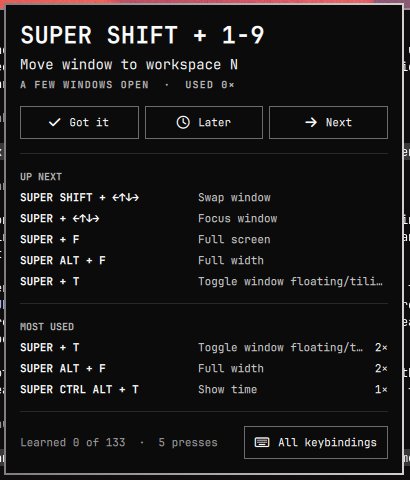
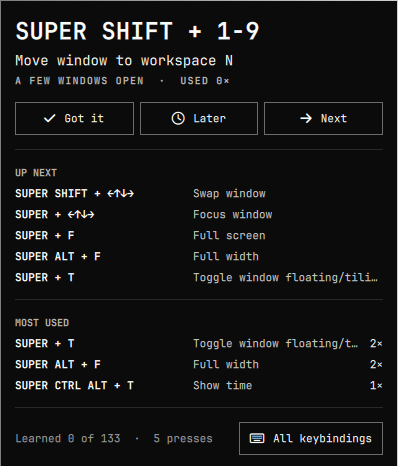
Rename plugin id to io.github.threeacresagency.keyhints; add marketplace preview
Marketplace plugin ids are permanent and globally unique, so use the
recommended io.github namespace. Adds a root preview.png for the listing.

Claude-Session: https://claude.ai/code/session_01DKnhWHVV6HbqrjStJANqUX

Changed region(s): [[0.0, 0.0, 1.0, 1.0], [0.4824, 0.3906, 0.9347, 0.6309], [0.4523, 0.0601, 0.5126, 0.0901]]

diff --git a/KeyHints.qml b/KeyHints.qml
@@ -15,8 +15,8 @@ import qs.Ui
 //   scroll = step suggestions back and forth
 Panel {
   id: root
-  moduleName: "brendan.keyhints"
-  ipcTarget: "brendan.keyhints"
+  moduleName: "io.github.threeacresagency.keyhints"
+  ipcTarget: "io.github.threeacresagency.keyhints"
 
   readonly property bool vertical: bar ? bar.vertical : false
   readonly property int barSize: bar ? bar.barSize : Style.bar.sizeHorizontal

diff --git a/README.md b/README.md
@@ -33,7 +33,7 @@ and nothing is hard-coded.
 
 ```bash
 omarchy plugin add https://github.com/ThreeAcresAgency/omarchy-keyhints.git --enable
-~/.config/omarchy/plugins/brendan.keyhints/install-tracker.sh
+~/.config/omarchy/plugins/io.github.threeacresagency.keyhints/install-tracker.sh
 ```
 
 The second step installs the usage tracker. Omarchy's plugin installer only
@@ -50,7 +50,7 @@ and nothing is ever marked learned automatically.
 Move the widget wherever you like:
 
 ```bash
-omarchy bar move brendan.keyhints --section left
+omarchy bar move io.github.threeacresagency.keyhints --section left
 ```
 
 ## Using it
@@ -65,13 +65,13 @@ omarchy bar move brendan.keyhints --section left
 | **Next** | — | Step the rotation |
 | Arrow keys / Enter / Esc | — | Next-prev / got it / close |
 
-From a terminal (`~/.config/omarchy/plugins/brendan.keyhints/keyhints.py`):
+From a terminal (`~/.config/omarchy/plugins/io.github.threeacresagency.keyhints/keyhints.py`):
 
 ```bash
 keyhints.py stats             # usage leaderboard and learned count
 keyhints.py unlearn "Full width"   # put a binding back in rotation
 keyhints.py reset             # forget manual learned/snoozed state, keep the log
-omarchy-shell brendan.keyhints toggle   # open/close the popup over IPC
+omarchy-shell io.github.threeacresagency.keyhints toggle   # open/close the popup over IPC
 ```
 
 ## Tuning
@@ -103,8 +103,8 @@ State lives in `~/.local/state/omarchy/keyhints/` (`usage.log`, `state.json`).
 ## Uninstall
 
 ```bash
-~/.config/omarchy/plugins/brendan.keyhints/install-tracker.sh --uninstall
-omarchy plugin remove brendan.keyhints
+~/.config/omarchy/plugins/io.github.threeacresagency.keyhints/install-tracker.sh --uninstall
+omarchy plugin remove io.github.threeacresagency.keyhints
 rm -r ~/.local/state/omarchy/keyhints   # optional
 ```
 
